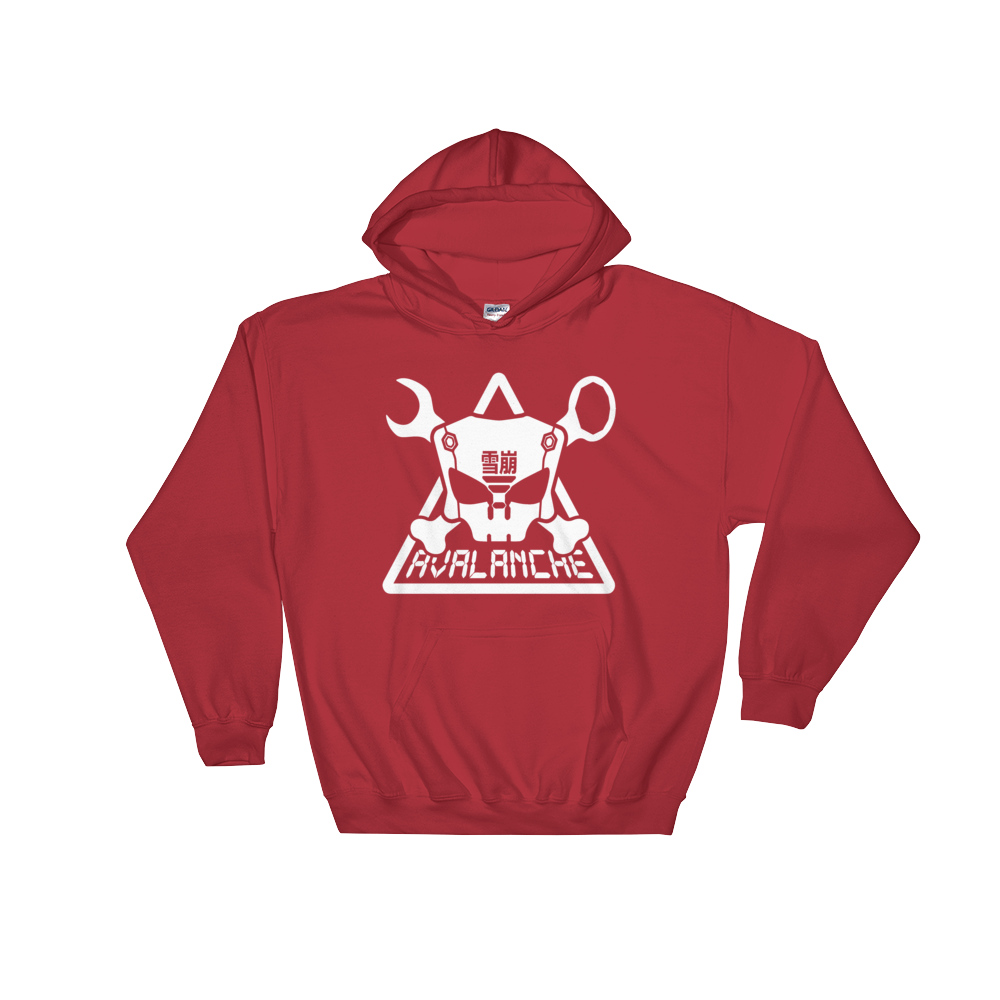
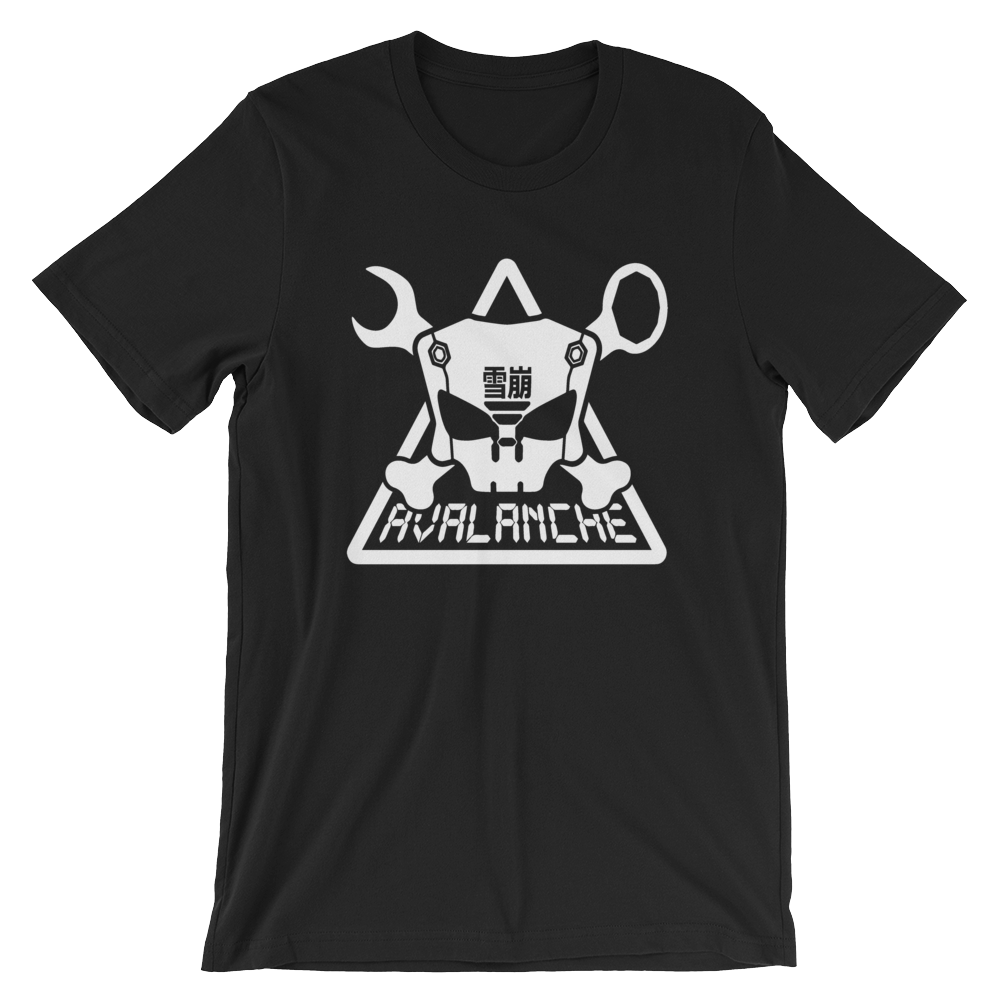
v1.2
changed file names. added store first version

diff --git a/store.html b/store.html
@@ -1,0 +1,57 @@
+<!DOCTYPE html>
+<html>
+	<head>
+			<meta charset="utf-8" />
+			<link rel="stylesheet" href="style.css"/>
+			<title>NOIRE Clothing</title>
+	</head>
+
+	<body>
+		<div id="bloc_page">
+			<header>
+				<div id="titre_principal">
+					<div id="logo">
+						<img src="images/noirearticle.png" width="100" height="100" alt="Logo de NOIRE" />
+							<h1>NOIRE </h1>	
+					</div>
+					<h2>Otaku Clothing</h2>
+				</div>
+				
+				<nav>
+					<ul>
+						<li><a href="#">Accueil</a></li>
+						<li><a href="#">Store</a></li>
+						<li><a href="#">Lookbook</a></li>
+						<li><a href="#">Contact</a></li>
+					</ul>
+				</nav>
+			</header>
+
+			
+			<div id="banniere_image">
+				<div id="banniere_description">						Brand new NOIRE collection
+					<a href="#" class="bouton.2"><img src="images/bouton.2.png" style="float:right" /><div style="clear:both">  </div></a>
+				</div>
+			</div>
+
+		<section>
+			<div id="Store">
+				<h1>T-shirts</h1>
+					<table border=1>
+						<tr>
+							<td><img src="images/mockup1.png" width="180" height="180" /></td>
+							<td><img src="images/mockup2.png" width="180" height="180" /></td>
+							<td><img src="images/mockup3.png" width="180" height="180" /></td>
+							<td><img src="images/mockup4.png" width="180" height="180" /></td>
+							<td><img src="images/mockup5.png" width="180" height="180" /></td>
+							
+						</tr>
+						<tr>	
+							<td><img src="images/mockup6.png" width="180" height="180" /></td>
+							<td><img src="images/mockup7.png" width="180" height="180" /></td>
+							<td><img src="images/mockup8.png" width="180" height="180" /></td>
+							<td><img src="images/mockup9.png" width="180" height="180" /></td>
+							<td><img src="images/mockup10.png" width="180" height="180" /></td>
+						</tr>	
+					</table>		
+		</section>
